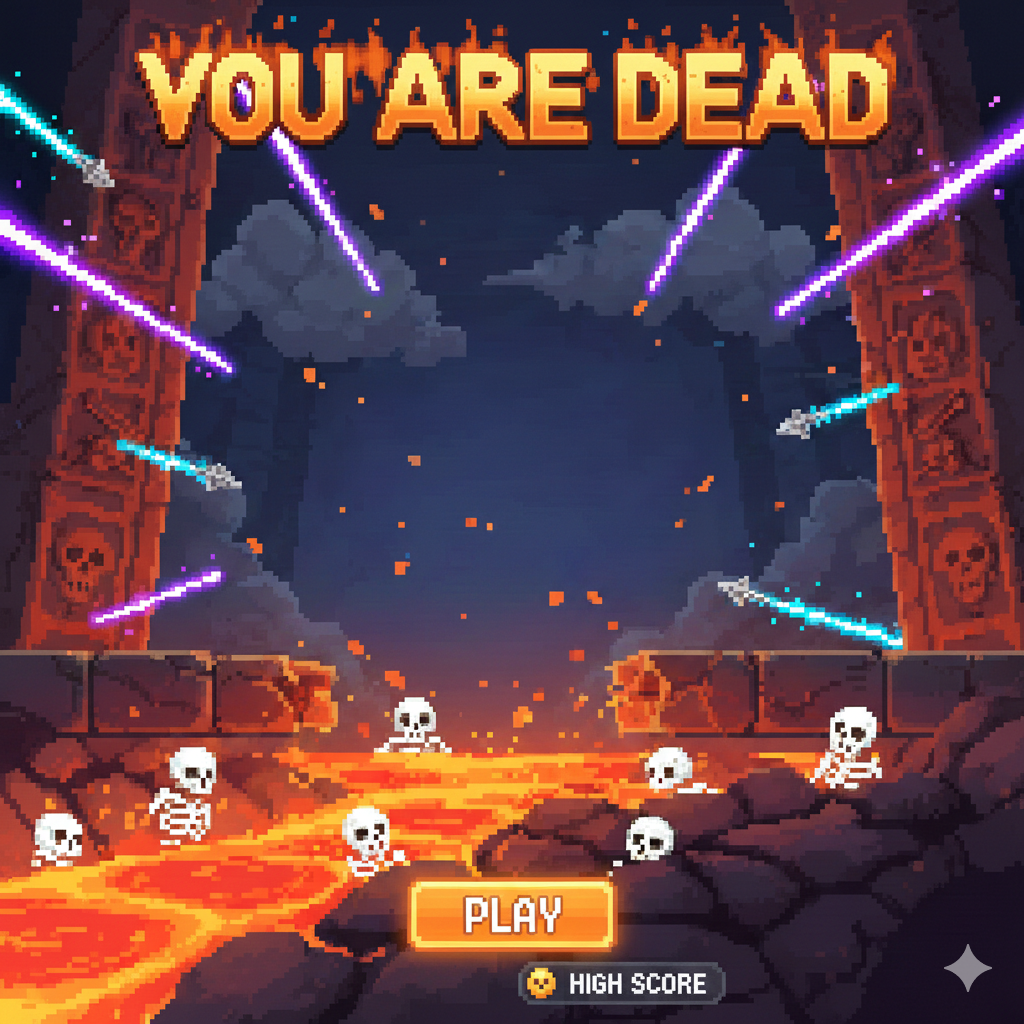
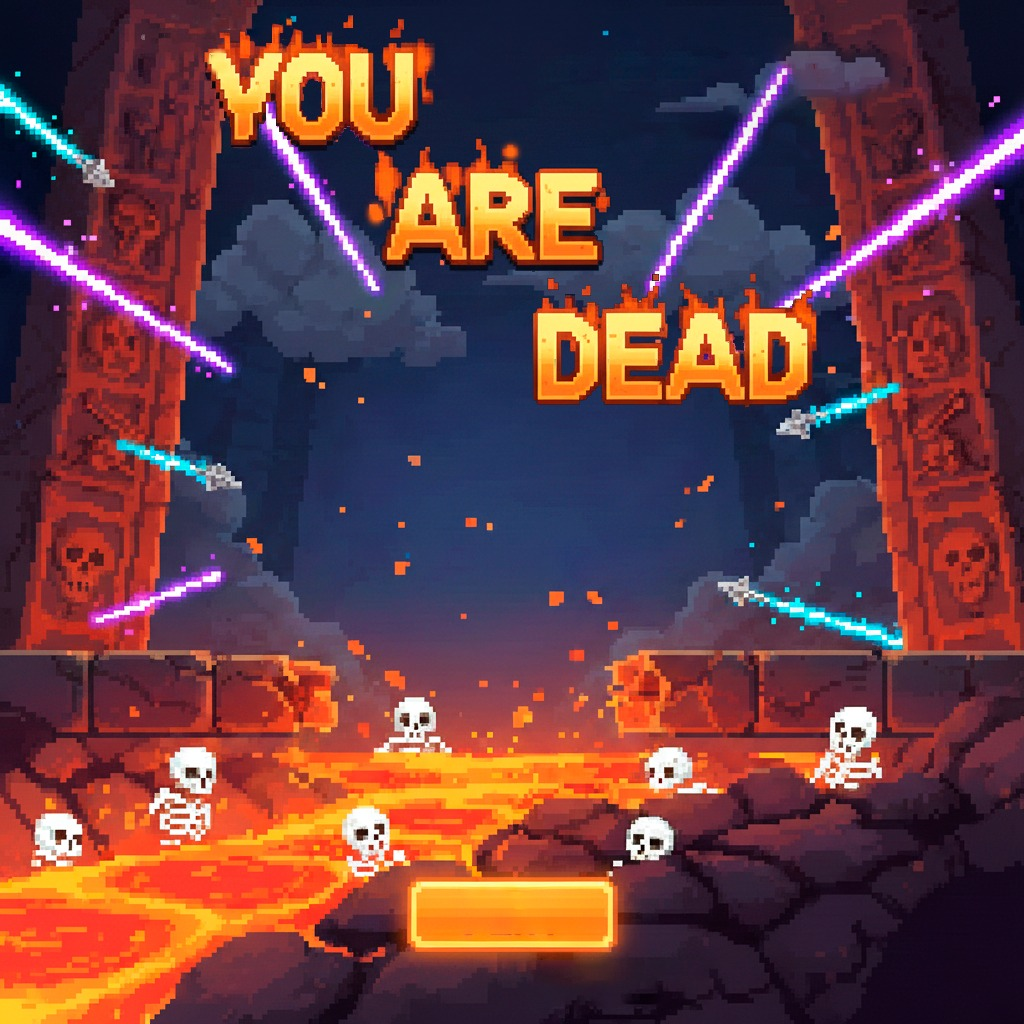
modos facil, varios niveles. monedas

diff --git a/src/Player.js b/src/Player.js
@@ -45,19 +45,37 @@ export default class Player extends Phaser.Physics.Arcade.Sprite {
     createMobileControls(scene) {
         const uiDepth = 1000;
 
-        // Left Button
-        this.btnLeft = scene.add.image(50, 520, 'btn_base')
+        // Joystick Base
+        this.joyBase = scene.add.circle(90, 520, 60, 0xffffff, 0.2)
             .setScrollFactor(0).setDepth(uiDepth).setInteractive();
-        this.btnLeft.on('pointerdown', () => this.virtualLeft = true);
-        this.btnLeft.on('pointerup', () => this.virtualLeft = false);
-        this.btnLeft.on('pointerout', () => this.virtualLeft = false);
 
-        // Right Button
-        this.btnRight = scene.add.image(130, 520, 'btn_base')
-            .setScrollFactor(0).setDepth(uiDepth).setInteractive();
-        this.btnRight.on('pointerdown', () => this.virtualRight = true);
-        this.btnRight.on('pointerup', () => this.virtualRight = false);
-        this.btnRight.on('pointerout', () => this.virtualRight = false);
+        // Joystick Thumb
+        this.joyThumb = scene.add.circle(90, 520, 30, 0xffffff, 0.5)
+            .setScrollFactor(0).setDepth(uiDepth);
+
+        let activeJoystickPointer = null;
+
+        this.joyBase.on('pointerdown', (pointer) => {
+            activeJoystickPointer = pointer;
+            this.updateJoystick(pointer);
+        });
+
+        scene.input.on('pointermove', (pointer) => {
+            if (pointer === activeJoystickPointer && pointer.isDown) {
+                this.updateJoystick(pointer);
+            }
+        });
+
+        const resetJoystick = (pointer) => {
+            if (pointer === activeJoystickPointer || !activeJoystickPointer) {
+                activeJoystickPointer = null;
+                this.joyThumb.setPosition(90, 520);
+                this.virtualLeft = false;
+                this.virtualRight = false;
+            }
+        };
+
+        scene.input.on('pointerup', resetJoystick);
 
         // Jump Button
         this.btnJump = scene.add.image(350, 520, 'btn_base')
@@ -75,6 +93,28 @@ export default class Player extends Phaser.Physics.Arcade.Sprite {
             this.virtualJump = false;
             this.virtualJumpJustReleased = true;
         });
+    }
+
+    updateJoystick(pointer) {
+        const baseX = 90;
+        const baseY = 520;
+        const maxRadius = 60;
+
+        let dx = pointer.x - baseX;
+        let dy = pointer.y - baseY;
+        const distance = Math.sqrt(dx * dx + dy * dy);
+
+        if (distance > maxRadius) {
+            const angle = Math.atan2(dy, dx);
+            dx = Math.cos(angle) * maxRadius;
+            dy = Math.sin(angle) * maxRadius;
+        }
+
+        this.joyThumb.setPosition(baseX + dx, baseY + dy);
+
+        // Map movement horizontally: deadzone of 15px
+        this.virtualLeft = dx < -15;
+        this.virtualRight = dx > 15;
     }
 
     update(time, delta) {

diff --git a/src/LevelManager.js b/src/LevelManager.js
@@ -81,8 +81,15 @@ export default class LevelManager {
         // Decide difficulty based on height (lower Y = higher altitude)
         const difficulty = Math.max(1, Math.min(10, Math.floor(Math.abs(chunkTopY) / 1000) + 1));
 
-        // Platform generation (every ~100px vertically)
-        for (let y = this.lastChunkY - 80; y >= chunkTopY; y -= Phaser.Math.Between(80, 110)) {
+        let minGap = 80;
+        let maxGap = 110;
+        if (this.scene.level === 1) {
+            minGap = 60;
+            maxGap = 80;
+        }
+
+        // Platform generation
+        for (let y = this.lastChunkY - minGap; y >= chunkTopY; y -= Phaser.Math.Between(minGap, maxGap)) {
             // How many platforms in this row? (1 or 2)
             const numPlatforms = Phaser.Math.Between(1, 2);
             for (let i = 0; i < numPlatforms; i++) {
@@ -99,18 +106,22 @@ export default class LevelManager {
                 this.makeOneWay(plat);
 
                 // Add spikes sometimes
-                if (!isBreakable && Phaser.Math.FloatBetween(0, 1) < (0.1 + difficulty * 0.02)) {
+                let hasSpike = false;
+                if (!isBreakable && Phaser.Math.FloatBetween(0, 1) < (0.02 + difficulty * 0.01)) {
                     this.spikes.create(x, y - 16, 'spike');
+                    hasSpike = true;
                 }
 
-                // Add coins sometimes
-                if (Phaser.Math.FloatBetween(0, 1) < 0.3) {
-                    this.coins.create(x, y - 30, 'coin');
-                }
+                if (!hasSpike) {
+                    // Add coins sometimes
+                    if (Phaser.Math.FloatBetween(0, 1) < 0.3) {
+                        this.coins.create(x, y - 30, 'coin');
+                    }
 
-                // Add jetpacks rarely (5% chance per platform)
-                if (Phaser.Math.FloatBetween(0, 1) < 0.05) {
-                    this.jetpacks.create(x, y - 30, 'jetpack');
+                    // Add jetpacks rarely (5% chance per platform)
+                    if (Phaser.Math.FloatBetween(0, 1) < 0.05) {
+                        this.jetpacks.create(x, y - 30, 'jetpack');
+                    }
                 }
             }
 

diff --git a/src/MainScene.js b/src/MainScene.js
@@ -31,7 +31,7 @@ export default class MainScene extends Phaser.Scene {
 
         // Lava
         this.lavaHeight = 800; // Start lava far down
-        this.lavaSpeed = 20 + (this.level * 5); // Faster base lava on higher levels
+        this.lavaSpeed = 30 + (this.level * 5); // Constant base lava, slightly faster each level
 
         this.levelManager = new LevelManager(this);
 
@@ -70,6 +70,9 @@ export default class MainScene extends Phaser.Scene {
         // Camera setup
         this.cameras.main.startFollow(this.player, true, 0, 0.1, 0, 100);
 
+        // Allow up to 3 active pointers for multitouch
+        this.input.addPointer(2);
+
         // Allow infinite upwards and downwards movement by disabling top/bottom world bounds
         this.physics.world.setBoundsCollision(true, true, false, false);
 
@@ -104,14 +107,6 @@ export default class MainScene extends Phaser.Scene {
 
         // Lava logic
         this.lavaHeight -= (this.lavaSpeed * (delta / 1000));
-
-        // Increase lava speed gradually
-        this.lavaSpeed = 20 + (this.maxHeight * 0.01);
-
-        // Safety mechanic to prevent lava from catching player immediately at start
-        if (this.lavaHeight > this.player.y + 300) {
-            this.lavaHeight = this.player.y + 300;
-        }
 
         this.lava.y = this.lavaHeight;
         this.lava.body.y = this.lavaHeight;
@@ -149,6 +144,12 @@ export default class MainScene extends Phaser.Scene {
         coin.destroy();
         this.score += 500;
         this.updateScore();
+
+        // Acorta el trayecto en un 5% por cada moneda
+        const startY = 500;
+        const totalDistance = startY - this.levelTargetY;
+        this.levelTargetY += (totalDistance * 0.05);
+        this.levelManager.targetY = this.levelTargetY;
     }
 
     collectJetpack(player, jetpack) {

diff --git a/src/MenuScene.js b/src/MenuScene.js
@@ -17,34 +17,14 @@ export default class MenuScene extends Phaser.Scene {
         // Slightly darken image so text reads well
         portada.setTint(0xdddddd);
 
-        // Text removed as it is part of the image
         const highScore = localStorage.getItem('templeHighScore') || 0;
-        this.add.text(width / 2, height - 60, `${highScore}`, {
-            fontSize: '48px',
+        this.add.text(width / 2, height - 10, `HIGH SCORE: ${highScore}`, {
+            fontSize: '32px',
             fill: '#ffffff',
             stroke: '#000000',
-            strokeThickness: 6,
+            strokeThickness: 5,
             fontStyle: 'bold'
-        }).setOrigin(0.5);
-
-        const playText = this.add.text(width / 2, height - 120, 'Click to PLAY', {
-            fontSize: '28px',
-            fill: '#00ff00',
-            stroke: '#000000',
-            strokeThickness: 5
-        }).setOrigin(0.5);
-
-        playText.setInteractive();
-
-        // Flashing text
-        this.tweens.add({
-            targets: playText,
-            alpha: 0,
-            duration: 500,
-            ease: 'Power2',
-            yoyo: true,
-            repeat: -1
-        });
+        }).setOrigin(0.5, 1);
 
         this.input.on('pointerdown', () => {
             this.scene.start('MainScene', { level: 1, score: 0 });

diff --git a/src/GameOverScene.js b/src/GameOverScene.js
@@ -39,24 +39,6 @@ export default class GameOverScene extends Phaser.Scene {
             }).setOrigin(0.5);
         }
 
-        const retryText = this.add.text(width / 2, height - 80, 'Click to Retry', {
-            fontSize: '28px',
-            fill: '#00ff00',
-            stroke: '#000000',
-            strokeThickness: 5
-        }).setOrigin(0.5);
-
-        retryText.setInteractive();
-
-        this.tweens.add({
-            targets: retryText,
-            alpha: 0,
-            duration: 500,
-            ease: 'Power2',
-            yoyo: true,
-            repeat: -1
-        });
-
         this.input.on('pointerdown', () => {
             this.scene.start('MainScene');
         });
